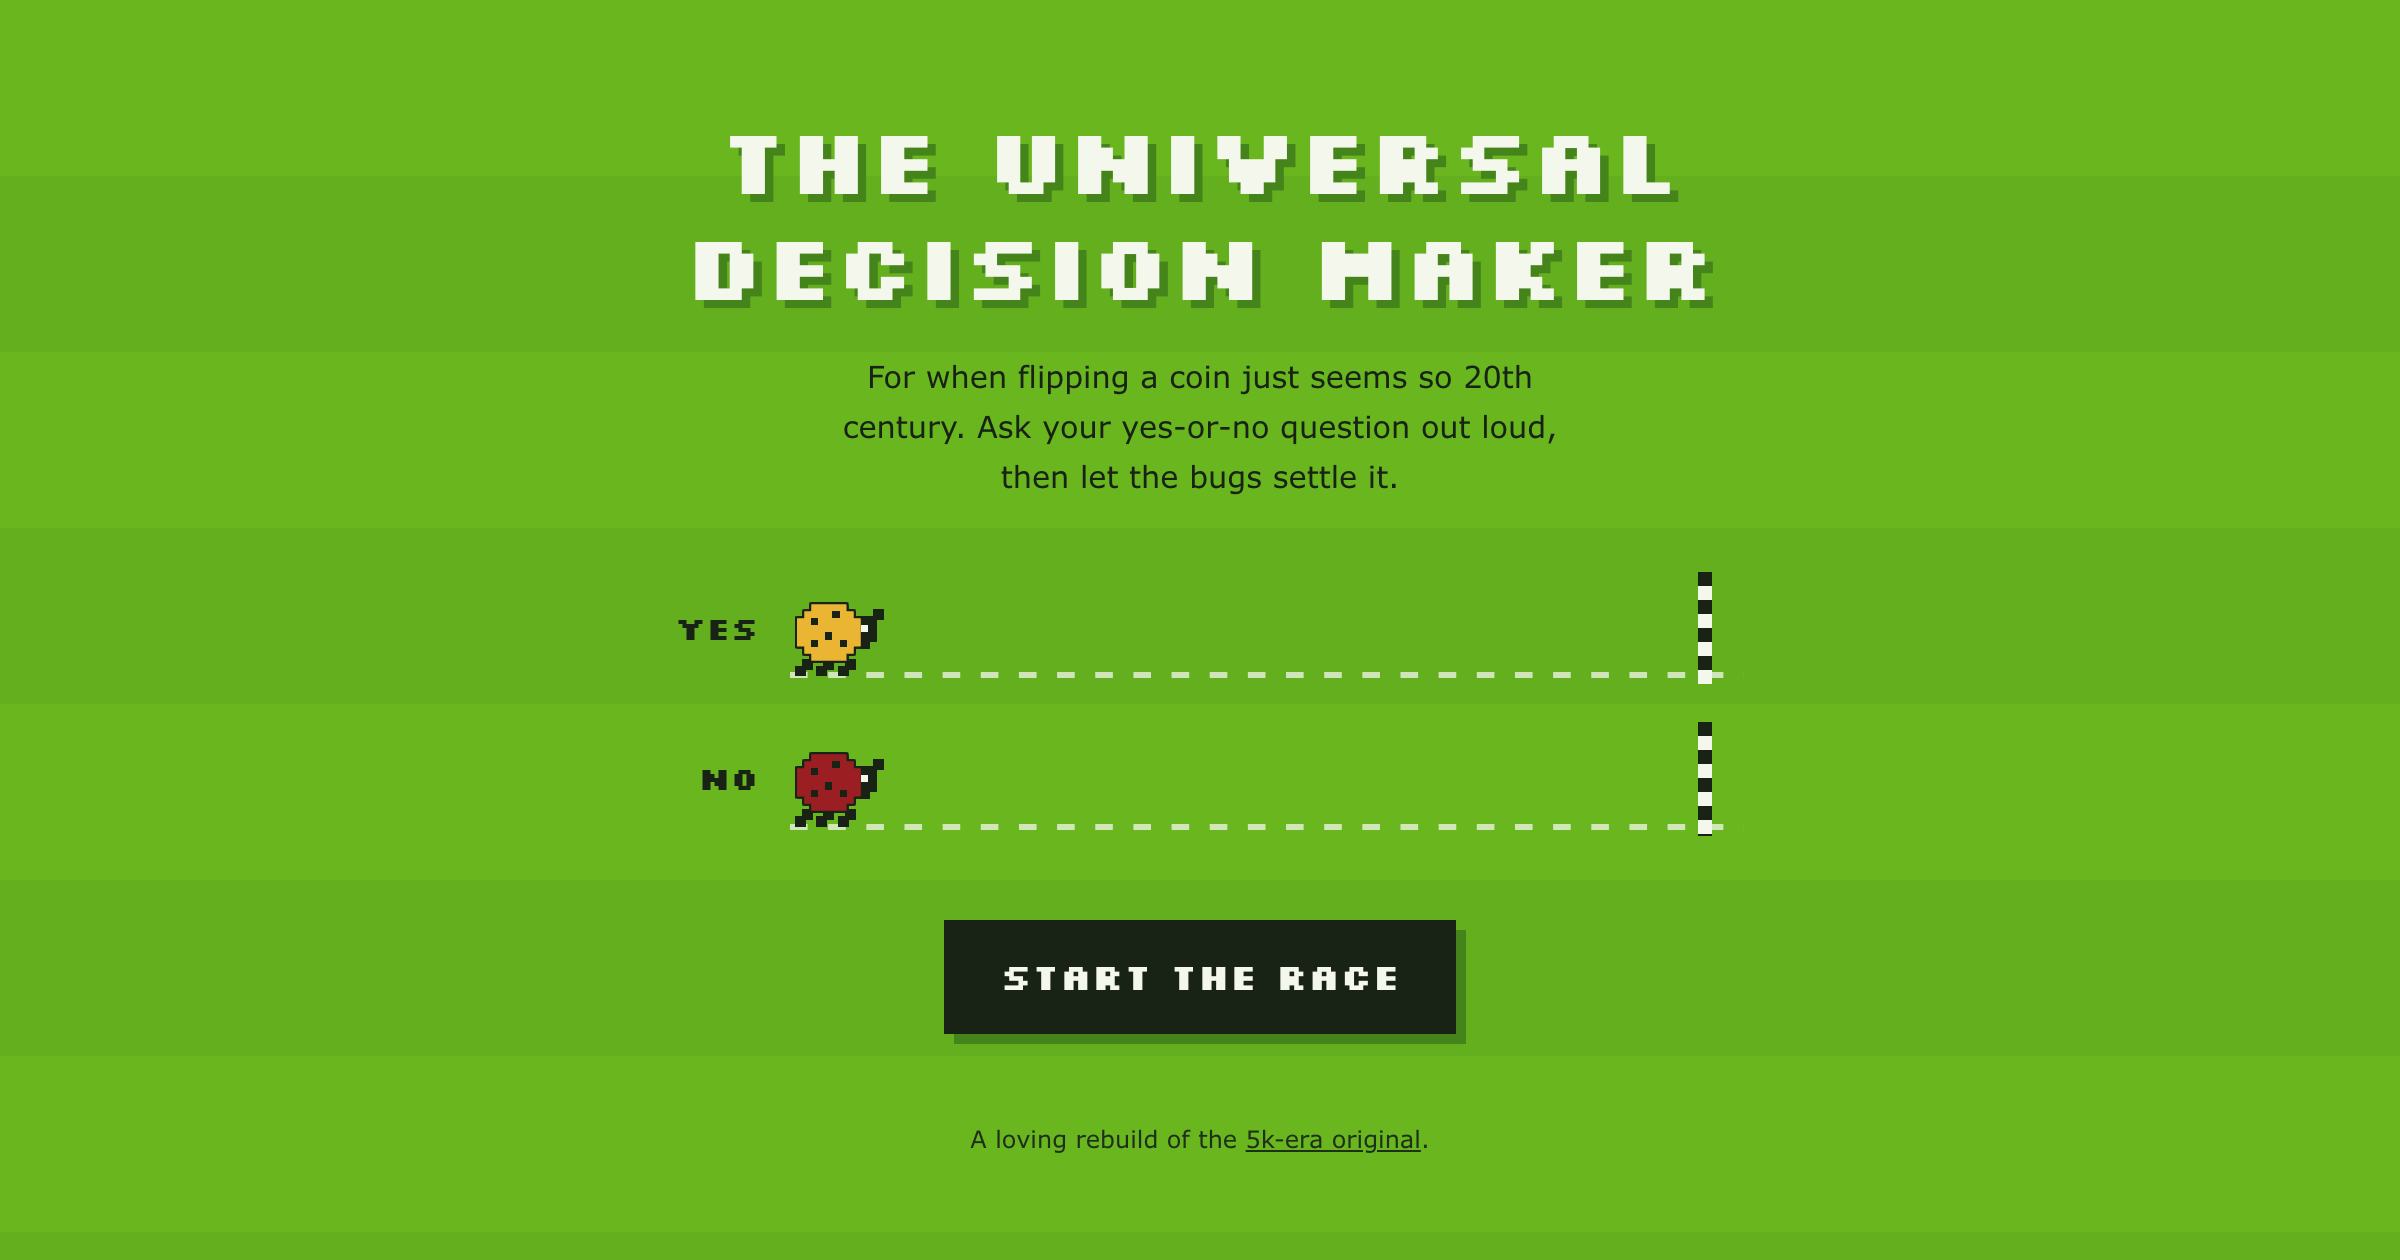
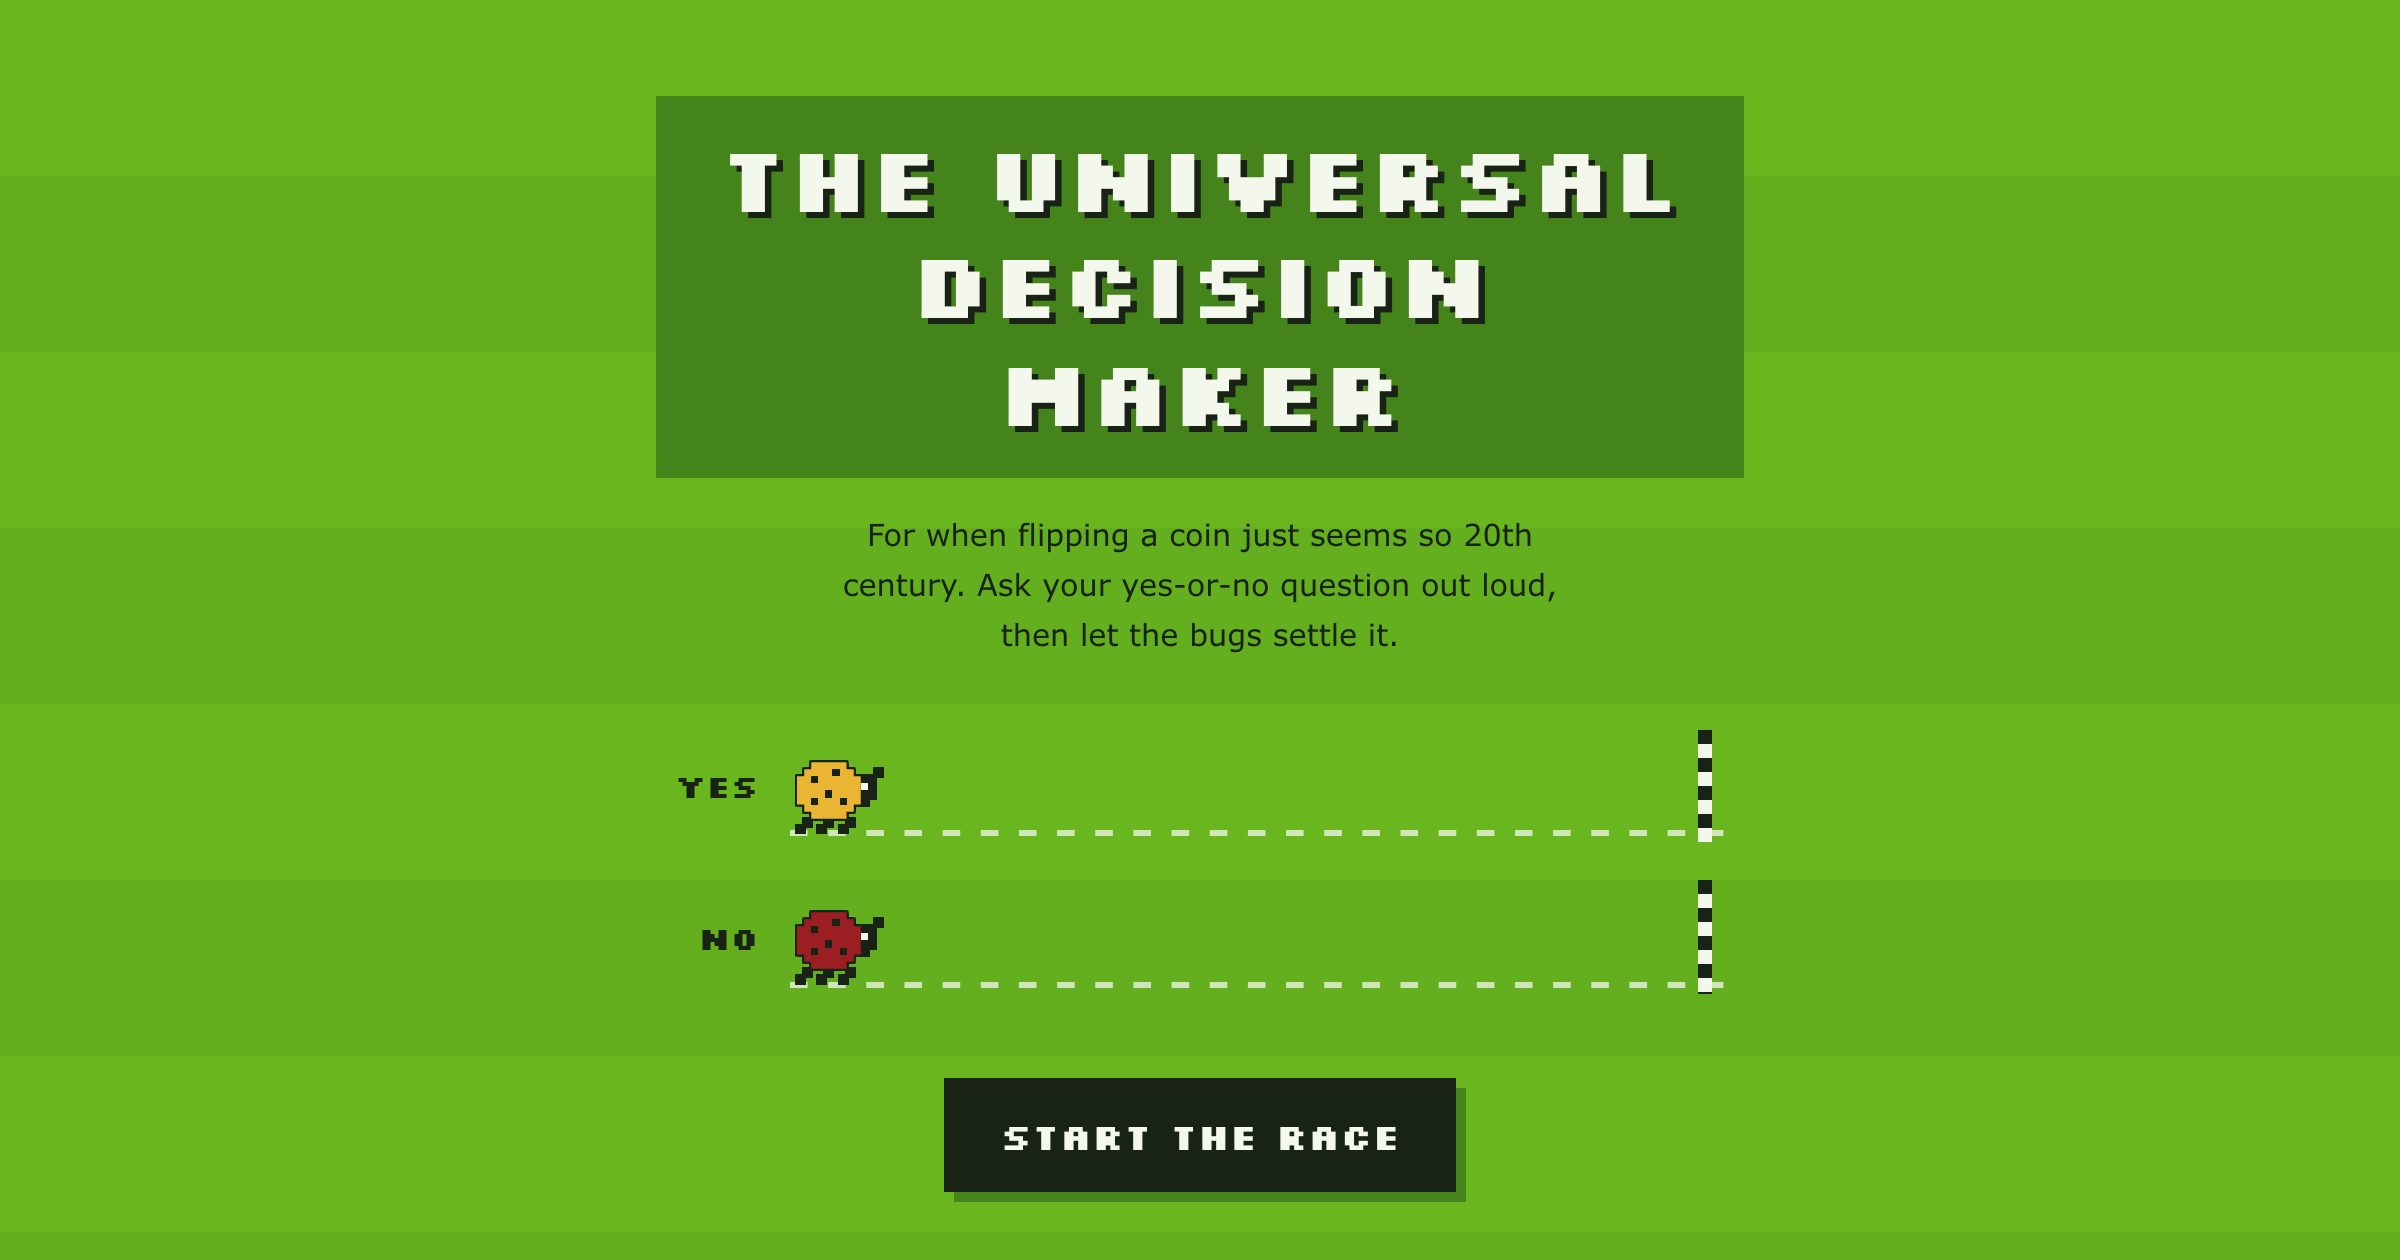
Fix WCAG 2.2 AA issues: title contrast, focus ring, looping motion
- Sit the masthead title on a lawn-deep sign board so the chalk letters
  clear 3:1 large-text contrast (was 2.33:1, now 4.24:1) — 1.4.3.
- Drop the chalk Start-button focus outline so it inherits the ink
  outline (6.44:1 over the lawn) — 1.4.11.
- Cap the winner's victory bounce to 8 iterations (~2.9s) so the
  looping motion self-stops under 5s — 2.2.2.
- Regenerate the social card to match the new title treatment.

diff --git a/style.css b/style.css
@@ -59,7 +59,12 @@ h1 {
   line-height: 1.15;
   text-transform: uppercase;
   color: var(--chalk);
-  text-shadow: 0.09em 0.09em 0 var(--lawn-deep);
+  /* deeper-green sign board lifts chalk letters to AA contrast (3:1+) */
+  display: inline-block;
+  max-width: 100%;
+  background: var(--lawn-deep);
+  padding: 0.3em 0.55em 0.36em;
+  text-shadow: 0.07em 0.07em 0 var(--ink);
   text-wrap: balance;
 }
 
@@ -150,7 +155,7 @@ h1 {
   50% { transform: scaleY(0.82); }
 }
 
-.bug.winner { animation: victory 360ms steps(2, jump-none) infinite; }
+.bug.winner { animation: victory 360ms steps(2, jump-none) 8; }
 
 @keyframes victory {
   50% { transform: translateY(-5px); }
@@ -236,10 +241,6 @@ h1 {
 :focus-visible {
   outline: 3px dashed var(--ink);
   outline-offset: 3px;
-}
-
-.start:focus-visible {
-  outline-color: var(--chalk);
 }
 
 .visually-hidden {